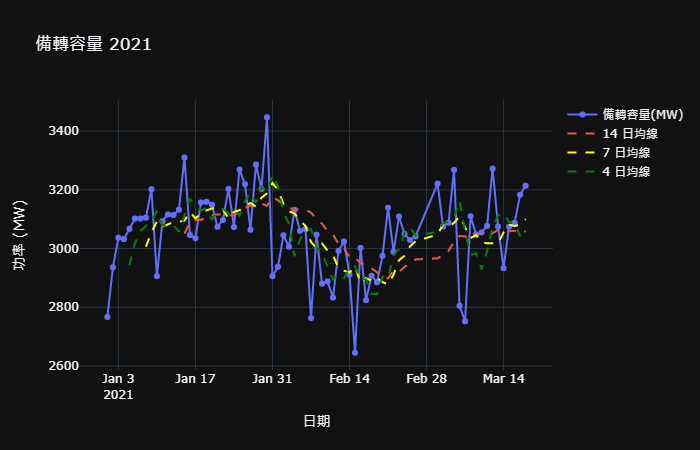
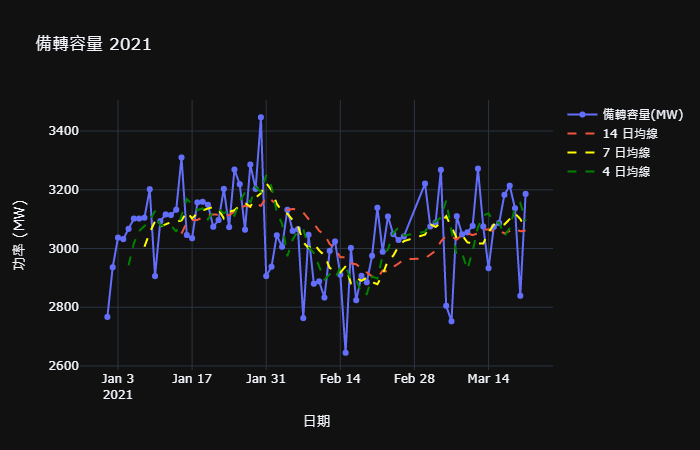
update all

diff --git a/app.py b/app.py
@@ -27,15 +27,6 @@ def remove_228(df):
 
 def fill_missing_val(df):
     ret = df.copy()
-    mar19 = pd.Series({'日期':'2021/03/19', '備轉容量(萬瓩)':327.2, '備轉容量率(%)':10.93, '星期':5, '備轉容量(MW)':3272.0})
-    ret = ret.append(mar19, ignore_index=True)
-
-    mar20 = pd.Series({'日期':'2021/03/20', '備轉容量(萬瓩)':307.5, '備轉容量率(%)':11.48, '星期':6, '備轉容量(MW)':3075})
-    ret = ret.append(mar20, ignore_index=True)
-
-    mar21 = pd.Series({'日期':'2021/03/21', '備轉容量(萬瓩)':298.3, '備轉容量率(%)':11.44, '星期':7, '備轉容量(MW)':2983})
-    ret = ret.append(mar21, ignore_index=True)
-
     mar22 = pd.Series({'日期':'2021/03/22', '備轉容量(萬瓩)':307.4, '備轉容量率(%)':10.22, '星期':1, '備轉容量(MW)':3074})
     ret = ret.append(mar22, ignore_index=True)
 
@@ -57,11 +48,11 @@ def model(train_df, interval, n):
         lst = list_by_day(train_df, len(train_df), day)
         lst.reverse()
         
-        if day != 7:
+        # ---
+        if day != 7 and day != 6:
             for j in range(len(lst)):
-                lst[j] = lst[j] + 70
-                if lst[j] < 3000:
-                    lst[j] = 3000
+                lst[j] = lst[j] + 50
+        # ---
         
         if n > len(lst):
             mean = sum(lst) / len(lst)

diff --git a/README.md b/README.md
@@ -282,22 +282,22 @@ list_by_day(df2, 4)
 list_by_day(df2, 5)
 ```
 ```
-['2021/01/01', '2021/01/08', '2021/01/15', '2021/01/22', '2021/01/29', '2021/02/05', '2021/02/12', '2021/02/19', '2021/02/26', '2021/03/05', '2021/03/12']
-[2767.0, 3105.0, 3310.0, 3097.0, 3203.0, 3060.0, 2992.0, 2885.0, 3041.0, 3268.0, 3272.0]
+['2021/01/01', '2021/01/08', '2021/01/15', '2021/01/22', '2021/01/29', '2021/02/05', '2021/02/12', '2021/02/19', '2021/02/26', '2021/03/05', '2021/03/12', '2021/03/19']
+[2767.0, 3105.0, 3310.0, 3097.0, 3203.0, 3060.0, 2992.0, 2885.0, 3041.0, 3268.0, 3272.0, 3137.0]
 ```
 ```python
 list_by_day(df2, 6)
 ```
 ```
-['2021/01/02', '2021/01/09', '2021/01/16', '2021/01/23', '2021/01/30', '2021/02/06', '2021/02/13', '2021/02/20', '2021/03/06', '2021/03/13']
-[2936.0, 3202.0, 3046.0, 3203.0, 3447.0, 3066.0, 3024.0, 2975.0, 2805.0, 3075.0]
+['2021/01/02', '2021/01/09', '2021/01/16', '2021/01/23', '2021/01/30', '2021/02/06', '2021/02/13', '2021/02/20', '2021/03/06', '2021/03/13', '2021/03/20']
+[2936.0, 3202.0, 3046.0, 3203.0, 3447.0, 3066.0, 3024.0, 2975.0, 2805.0, 3075.0, 2839.0]
 ```
 ```python
 list_by_day(df2, 7)
 ```
 ```
-['2021/01/03', '2021/01/10', '2021/01/17', '2021/01/24', '2021/01/31', '2021/02/07', '2021/02/14', '2021/02/21', '2021/03/07', '2021/03/14']
-[3037.0, 2906.0, 3035.0, 3073.0, 2906.0, 2763.0, 2911.0, 3139.0, 2752.0, 2933.0]
+['2021/01/03', '2021/01/10', '2021/01/17', '2021/01/24', '2021/01/31', '2021/02/07', '2021/02/14', '2021/02/21', '2021/03/07', '2021/03/14', '2021/03/21']
+[3037.0, 2906.0, 3035.0, 3073.0, 2906.0, 2763.0, 2911.0, 3139.0, 2752.0, 2933.0, 3186.0]
 ```
 
 > 總結: 預測時應該會從 n 日平均或星期來下手，不考慮使用 ML 模型，因為備轉容量似乎跟供電、負載無關，而且只預測 7 天，不能依靠大趨勢，參考前兩個禮拜內的資料或同為星期 x 的資料應該比較準
@@ -321,9 +321,9 @@ def orig_data(begin_date, interval):
     tmp = 0
     for i in df2.index:
         if df2.loc[i, '日期'] == begin_date:
-            break;
+            break
         else:
-            tmp = tmp + 1;
+            tmp = tmp + 1
     return df2[tmp: tmp + interval]['備轉容量(MW)'].tolist()
 ```
 
@@ -337,12 +337,13 @@ for i in range(15, 31):
 tmp_str = '2021/03/0'
 for i in range(2, 10):
     test_lst.append(tmp_str + str(i))
-test_lst.append('2021/03/10')
-test_lst.append('2021/03/11')
+tmp_str = '2021/03/'
+for i in range(10, 16):
+    test_lst.append(tmp_str + str(i))
 print(test_lst)
 ```
 ```
-['2021/01/15', '2021/01/16', '2021/01/17', '2021/01/18', '2021/01/19', '2021/01/20', '2021/01/21', '2021/01/22', '2021/01/23', '2021/01/24', '2021/01/25', '2021/01/26', '2021/01/27', '2021/01/28', '2021/01/29', '2021/01/30', '2021/03/02', '2021/03/03', '2021/03/04', '2021/03/05', '2021/03/06', '2021/03/07', '2021/03/08', '2021/03/09', '2021/03/10', '2021/03/11']
+['2021/01/15', '2021/01/16', '2021/01/17', '2021/01/18', '2021/01/19', '2021/01/20', '2021/01/21', '2021/01/22', '2021/01/23', '2021/01/24', '2021/01/25', '2021/01/26', '2021/01/27', '2021/01/28', '2021/01/29', '2021/01/30', '2021/03/02', '2021/03/03', '2021/03/04', '2021/03/05', '2021/03/06', '2021/03/07', '2021/03/08', '2021/03/09', '2021/03/10', '2021/03/11', '2021/03/12', '2021/03/13', '2021/03/14', '2021/03/15']
 ```
 
 ---
@@ -385,16 +386,16 @@ def print_evaluate(begin_date, interval, n):
     print('RTMS error:', rtms)
 ```
 
-以下舉一個例子，假設預測 03/11 往後的 7 天 (含 03/11)，取往前 13 天的平均，所計算出的 RMSE
+以下舉一個例子，假設預測 03/15 往後的 7 天 (含 03/11)，取往前 13 天的平均，所計算出的 RMSE
 
 ```python
-print_evaluate('2021/03/11', 7, 13)
+print_evaluate('2021/03/15', 7, 13)
 ```
 ```
-from: 2021/03/11 interval: 7 days
-actual data: [3077.0, 3272.0, 3075.0, 2933.0, 3074.0, 3087.0, 3183.0]
-pred data:   [3050, 3050, 3050, 3050, 3050, 3050, 3050]
-RTMS error: 109.51907857277001
+from: 2021/03/15 interval: 7 days
+actual data: [3074.0, 3087.0, 3183.0, 3214.0, 3137.0, 2839.0, 3186.0]
+pred data:   [3059, 3059, 3059, 3059, 3059, 3059, 3059]
+RTMS error: 125.93819345785683
 ```
 
 接下來我檢視單純計算 7 至 14 日均線 (即 `model1`) 預測後 7 日的 RMSE。
@@ -421,9 +422,9 @@ fig.show()
 
 ![](readme-imgs/6.png)
 
-- 由於星期一的備載容量通常較高，所以將預測的星期一的備轉容量拉高 70
-- 由於星期日通常是該周備轉容量最低的，所以將預測的星期日的備轉容量拉低 100
-(數字 70、100 是我憑感覺亂選的，也許可以用暴力法挑出最優的數字，但有 overfitting 的疑慮)
+- 由於星期一的備載容量通常較高，所以將預測的星期一的備轉容量拉高 30
+- 由於星期六日通常是該周備轉容量最低的，所以將預測的星期日的備轉容量拉低 30
+(數字 30 是我憑感覺亂選的，也許可以用暴力法挑出最優的數字，但有 overfitting 的疑慮)
 
 ```python
 def model1(begin_date, interval, n):
@@ -441,11 +442,14 @@ def model1(begin_date, interval, n):
     mean = sum(lst) / n
     for i in range(0, interval):
         temp = int(mean)
+
+        # ---
         if day == 1:
-            temp = temp + 70
-        elif day == 7:
-            temp = temp - 100
+            temp = temp + 30
+        elif day == 6 or day == 7:
+            temp = temp - 30
         ret.append(temp)
+        # ---
 
         if day == 7:
             day = 1
@@ -454,13 +458,13 @@ def model1(begin_date, interval, n):
     
     return ret
 
-print_evaluate('2021/03/11', 7, 13)
+print_evaluate('2021/03/15', 7, 13)
 ```
 ```
-from: 2021/03/11 interval: 7 days
-actual data: [3077.0, 3272.0, 3075.0, 2933.0, 3074.0, 3087.0, 3183.0]
-pred data:   [3050, 3050, 3050, 2950, 3120, 3050, 3050]
-RTMS error: 101.48961945510909
+from: 2021/03/15 interval: 7 days
+actual data: [3074.0, 3087.0, 3183.0, 3214.0, 3137.0, 2839.0, 3186.0]
+pred data:   [3089, 3059, 3059, 3059, 3059, 3029, 3029]
+RTMS error: 123.77571882816343
 ```
 ```python
 n1, n2 = 7, 15
@@ -482,7 +486,7 @@ fig.show()
 
 ![](readme-imgs/7.png)
 
-經過上述微調後，3月份預測的 RMSE 降低 6 到 10 左右
+經過微調後，3月份預測的 RMSE 幾乎沒變...
 
 ---
 
@@ -540,16 +544,16 @@ def print_evaluate(begin_date, interval, n):
     print('RTMS error:', rtms)
 ```
 
-假設預測 03/11 往後的 7 天 (含 03/11)，取往前 2 周同為周四的平均 (03/04、02/25)，所計算出的 RMSE
+假設預測 03/14 往後的 7 天 (含 03/14)，對於 03/14 取往前 3 周同為周一的平均 (03/07、(跳過 02/28)、02/21、02/14)，03/15 依此類推，所計算出的 RMSE
 
 ```python
-print_evaluate('2021/03/11', 7, 2)
+print_evaluate('2021/03/14', 7, 3)
 ```
 ```
-from: 2021/03/11 interval: 7 days
-actual data: [3077.0, 3272.0, 3075.0, 2933.0, 3074.0, 3087.0, 3183.0]
-pred data:   [3058, 3154, 2890, 2945, 3049, 3134, 3065]
-RTMS error: 96.6673234788852
+from: 2021/03/14 interval: 7 days
+actual data: [2933.0, 3074.0, 3087.0, 3183.0, 3214.0, 3137.0, 2839.0]
+pred data:   [2934, 2914, 3126, 3059, 3064, 3193, 2951]
+RTMS error: 107.35654880550403
 ```
 ```python
 n1, n2 = 2, 5
@@ -571,7 +575,11 @@ fig.show()
 
 ![](readme-imgs/8.png)
 
-就我自己用 `print_evaluate` 反覆觀察後，發現使用這套方法預測三月周一到五的備轉容量會比正確的值還要低，並且考慮到往後天氣有很高的機會越來越熱，所以我將過往**周日以外**的備轉容量全部加上 70 以利於計算上降低誤差，如果加上 70 之後仍小於 3000 ，我會將其值直接設為 3000。 (希望不會 overfitting...)
+--- 03/18 ---  
+~~考慮到往後天氣有很高的機會越來越熱，我將過往**周日以外**的備轉容量全部加上 70 以利於計算上降低誤差，如果加上 70 之後仍小於 3000 ，我會將其值直接設為 3000。 (希望不會 overfitting...)~~
+
+--- 03/22 ---  
+這周突然變冷，查了氣象發現有東北季風，所以可能要修正策略
 
 ```python
 def model2(begin_date, interval, n):
@@ -590,14 +598,12 @@ def model2(begin_date, interval, n):
         lst = list_by_day2(df2, tmp + i, day)
         lst.reverse()
         
-        # --- add 70 here
-        if day != 7:
-            for j in range(len(lst)):
-                lst[j] = lst[j] + 70
-                if lst[j] < 3000:
-                    lst[j] = 3000
         # ---
-
+        if day != 7 and day != 6:
+            for j in range(len(lst)):
+                lst[j] = lst[j] + 50
+        # ---
+        
         if n > len(lst):
             mean = sum(lst) / len(lst)
         else:
@@ -611,13 +617,13 @@ def model2(begin_date, interval, n):
     return ret
 ```
 ```python
-print_evaluate('2021/03/11', 7, 4)
+print_evaluate('2021/03/14', 7, 3)
 ```
 ```
-from: 2021/03/11 interval: 7 days
-actual data: [3077.0, 3272.0, 3075.0, 2933.0, 3074.0, 3087.0, 3183.0]
-pred data:   [3064, 3127, 3068, 2891, 3089, 3165, 3097]
-RTMS error: 72.4194133404257
+from: 2021/03/14 interval: 7 days
+actual data: [2933.0, 3074.0, 3087.0, 3183.0, 3214.0, 3137.0, 2839.0]
+pred data:   [2934, 2964, 3176, 3109, 3114, 3243, 2951]
+RTMS error: 92.02328897776755
 ```
 ```python
 n1, n2 = 2, 5
@@ -652,18 +658,6 @@ fig.show()
 ```python
 train_df = df2.copy()
 
-date19 = datetime.datetime.strptime('2021/03/19', '%Y/%m/%d')
-mar19 = pd.Series({'日期':'2021/03/19', '備轉容量(萬瓩)':327.2, '備轉容量率(%)':10.93, '星期':5, '備轉容量(MW)':3272.0, '日期2':date19})
-train_df = train_df.append(mar19, ignore_index=True)
-
-date20 = datetime.datetime.strptime('2021/03/20', '%Y/%m/%d')
-mar20 = pd.Series({'日期':'2021/03/20', '備轉容量(萬瓩)':307.5, '備轉容量率(%)':11.48, '星期':6, '備轉容量(MW)':3075, '日期2':date20})
-train_df = train_df.append(mar20, ignore_index=True)
-
-date21 = datetime.datetime.strptime('2021/03/21', '%Y/%m/%d')
-mar21 = pd.Series({'日期':'2021/03/21', '備轉容量(萬瓩)':298.3, '備轉容量率(%)':11.44, '星期':7, '備轉容量(MW)':2983, '日期2':date21})
-train_df = train_df.append(mar21, ignore_index=True)
-
 date22 = datetime.datetime.strptime('2021/03/22', '%Y/%m/%d')
 mar22 = pd.Series({'日期':'2021/03/22', '備轉容量(萬瓩)':307.4, '備轉容量率(%)':10.22, '星期':1, '備轉容量(MW)':3074, '日期2':date22})
 train_df = train_df.append(mar22, ignore_index=True)
@@ -688,11 +682,11 @@ def model3(interval, n):
         lst = list_by_day3(train_df, len(train_df), day)
         lst.reverse()
         
-        if day != 7:
+        # ---
+        if day != 7 and day != 6:
             for j in range(len(lst)):
-                lst[j] = lst[j] + 70
-                if lst[j] < 3000:
-                    lst[j] = 3000
+                lst[j] = lst[j] + 50
+        # ---
         
         if n > len(lst):
             mean = sum(lst) / len(lst)
@@ -713,7 +707,7 @@ print(pred)
 ```
 ```
 ['20210323', '20210324', '20210325', '20210326', '20210327', '20210328', '20210329']
-[3188, 3174, 3196, 3340, 3096, 2889, 3156]
+[3168, 3154, 3176, 3275, 2906, 2957, 3136]
 ```
 
 結束
